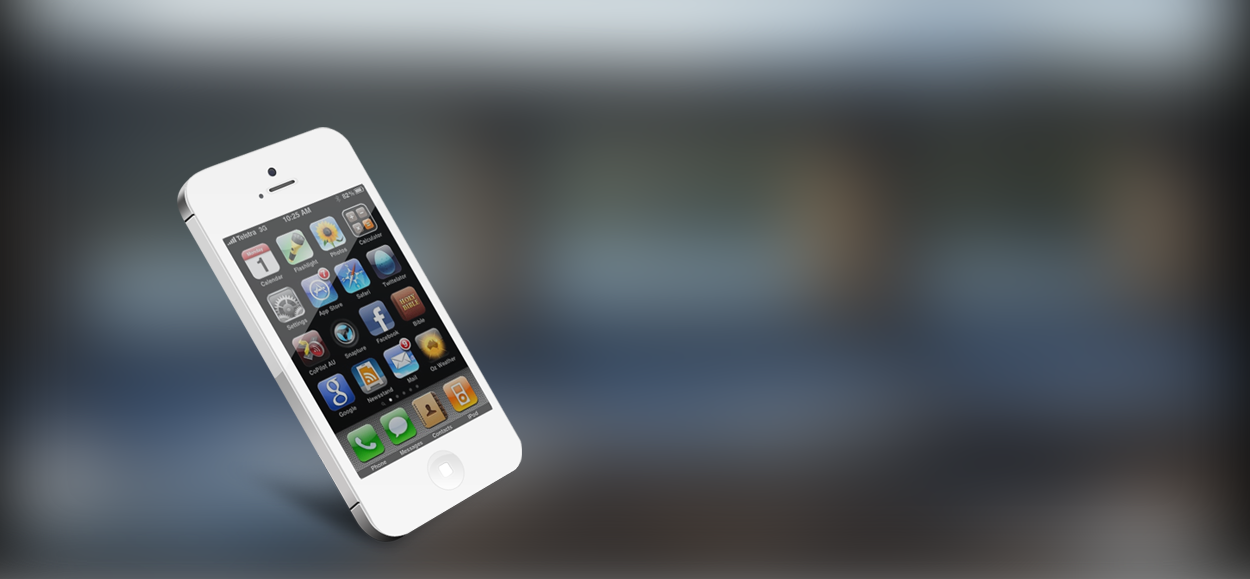
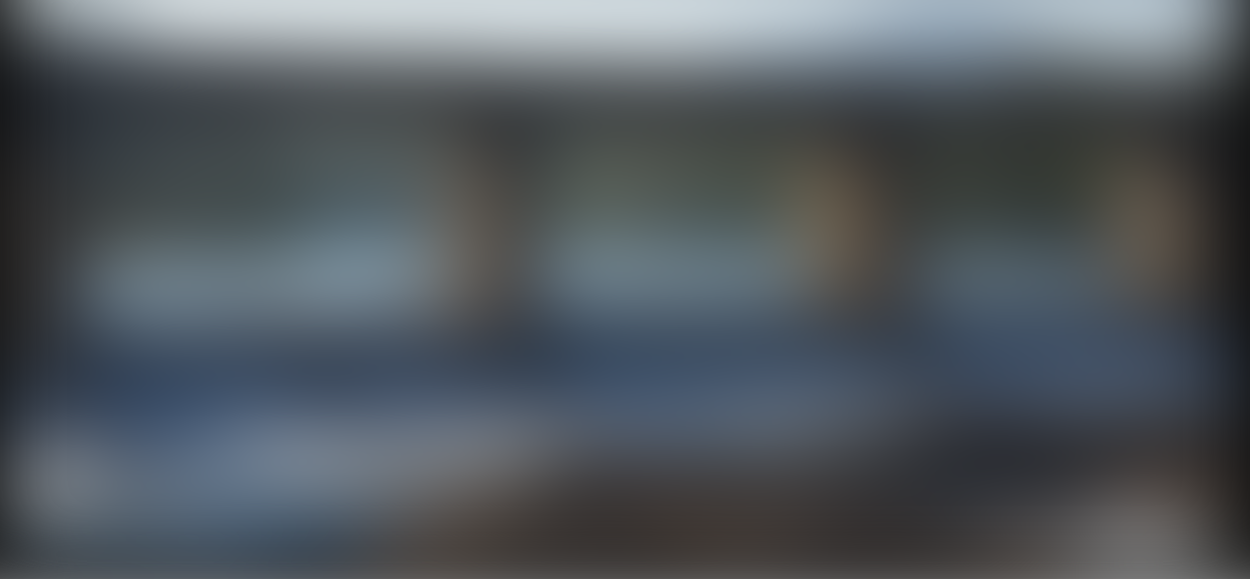
нов проект

Changed region(s): [[0.1248, 0.2176, 0.4368, 0.9326]]

diff --git a/index.html b/index.html
@@ -21,9 +21,9 @@
 				<div class="row">
 					<div class="col-4">
 						<img src="img/1.png">
-						<span>Mobile</span>
+						<span class="mob">Mobile</span>
 					</div>
-					<div class="col-6 offset-2">
+					<div class="menu col-6 offset-2">
 						<span>Home</span>
 						<span>Products</span>
 						<span>Services</span>
@@ -32,53 +32,94 @@
 				</div>
 			</div>
 		</div>
-
-		<div class="row bigbox">
+		<div class="row main-bg bigbox">
 			<div class="container">
 				<div class="row">
-					<div class="col-6 offset-6">
-						<span>Lorem ipsum dolor, sit amet consectetur adipisicing elit.</span>
-						<p><a href="#"></a></p>
+					<div class="col-12">
+						<div id="carouselExampleCaptions" class="carousel slide" data-ride="carousel">
+							<ol class="carousel-indicators">
+								<li data-target="#carouselExampleCaptions" data-slide-to="0" class="active"></li>
+								<li data-target="#carouselExampleCaptions" data-slide-to="1"></li>
+								<li data-target="#carouselExampleCaptions" data-slide-to="2"></li>
+							</ol>
+							<div class="carousel-inner">
+								<div class="carousel-item  active">
+									<img class="firsbox" src="img/phone.png" class="d-block" alt="...">
+									<div class="carousel-caption d-none d-md-block">
+										<h5 class="lump">Lorem Ipsum is simply</h5>
+										<p class="texlump">dummy text of the</p>
+										<p class="texlump">printing & typesetting</p>
+										<p class="link"><a href="#"><img src="img/icon_button.png"> Sign up now</a></p>
+									</div>
+								</div>
+								<div class="carousel-item">
+									<img class="firsbox" src="img/phone.png" class="d-block " alt="...">
+									<div class="carousel-caption d-none d-md-block">
+										<h5>Second slide label</h5>
+										<p>Some representative placeholder content for the second slide.</p>
+									</div>
+								</div>
+								<div class="carousel-item">
+									<img class="firsbox" src="img/phone.png" class="d-block " alt="...">
+									<div class="carousel-caption d-none d-md-block">
+										<h5>Third slide label</h5>
+										<p>Some representative placeholder content for the third slide.</p>
+									</div>
+								</div>
+							</div>
+							<button class="carousel-control-prev" type="button" data-target="#carouselExampleCaptions"
+								data-slide="prev">
+								<span class="carousel-control-prev-icon" aria-hidden="true"></span>
+								<span class="sr-only">Previous</span>
+							</button>
+							<button class="carousel-control-next" type="button" data-target="#carouselExampleCaptions"
+								data-slide="next">
+								<span class="carousel-control-next-icon" aria-hidden="true"></span>
+								<span class="sr-only">Next</span>
+							</button>
+						</div>
 					</div>
+				</div>
+
+
+
+
+			</div>
+		</div>
+	</div>
+	<div class="row">
+		<div class="container">
+			<div class="row">
+				<div class="col-4">
+					<img src="img/12-layers 2.png">
+					<p>Buy</p>
+					<p>Lorem ipsum dolor sit amet, consectetur adipisicing elit. Id, ad perspiciatis
+						maiores vel
+						nihil aliquam sunt alias mollitia natus fuga amet dolores dicta inventore
+						nesciunt numquam.
+					</p>
+				</div>
+				<div class="col-4">
+					<img src="img/2-layers (1).png">
+					<p>Look</p>
+					<p>Lorem ipsum dolor sit amet, consectetur adipisicing elit. Id, ad perspiciatis
+						maiores vel
+						nihil aliquam sunt alias mollitia natus fuga amet dolores dicta inventore
+						nesciunt numquam.
+					</p>
+				</div>
+				<div class="col-4">
+					<img src="img/2-layers (2).png">
+					<p>Write and draw</p>
+					<p>Lorem ipsum dolor sit amet, consectetur adipisicing elit. Id, ad perspiciatis
+						maiores vel
+						nihil aliquam sunt alias mollitia natus fuga amet dolores dicta inventore
+						nesciunt numquam.
+					</p>
 				</div>
 			</div>
 		</div>
-
-
-
-		<div class="row">
-			<div class="container">
-				<div class="row">
-					<div class="col-4">
-						<img src="img/12-layers 2.png">
-						<p>Buy</p>
-						<p>Lorem ipsum dolor sit amet, consectetur adipisicing elit. Id, ad perspiciatis
-							maiores vel
-							nihil aliquam sunt alias mollitia natus fuga amet dolores dicta inventore
-							nesciunt numquam.
-						</p>
-					</div>
-					<div class="col-4">
-						<img src="img/2-layers (1).png">
-						<p>Look</p>
-						<p>Lorem ipsum dolor sit amet, consectetur adipisicing elit. Id, ad perspiciatis
-							maiores vel
-							nihil aliquam sunt alias mollitia natus fuga amet dolores dicta inventore
-							nesciunt numquam.
-						</p>
-					</div>
-					<div class="col-4">
-						<img src="img/2-layers (2).png">
-						<p>Write and draw</p>
-						<p>Lorem ipsum dolor sit amet, consectetur adipisicing elit. Id, ad perspiciatis
-							maiores vel
-							nihil aliquam sunt alias mollitia natus fuga amet dolores dicta inventore
-							nesciunt numquam.
-						</p>
-					</div>
-				</div>
-			</div>
-		</div>
+	</div>
 	</div>
 	<div class="container">
 		<div class="row">
@@ -133,7 +174,8 @@
 
 
 
-		</script>
+
+		<script src="libs/jquery/jquery-3.6.0.min.js"></script>
 		<script src="libs/bootstrap/js/bootstrap.bundle.js"></script>
 		<script src="libs/bootstrap/js/bootstrap.js"></script>
 </body>

diff --git a/css/main.css b/css/main.css
@@ -1,6 +1,115 @@
-.bigbox {
+.mob {
+    width: 212px;
+    height: 58px;
+    color: #5094f2;
+    font-family: Jokerman;
+    font-size: 60px;
+    font-weight: 400;
+    text-align: left;
+    letter-spacing: 0.6px;
+    margin-left: 2%;
+    vertical-align: middle;
+}
+
+.menu {
+    width: 448px;
+    color: #6c6c6c;
+    font-family: Jokerman;
+    font-size: 25px;
+    font-weight: 400;
+    text-align: left;
+    letter-spacing: 0.25px;
+    margin-top: 3%;
+}
+
+.lump {
+    width: 415px;
+    color: #ffffff;
+    font-family: "Stylus BT";
+    font-size: 28px;
+    font-weight: 400;
+    line-height: 44.42px;
+    text-align: left;
+}
+
+.texlum {
+    font-family: "Stylus BT";
+    font-size: 20px;
+    font-weight: 400;
+    line-height: 44.42px;
+    text-align: left;
+    margin: 0;
+}
+
+.texlump {
+    font-family: "Stylus BT";
+    font-size: 24px;
+    font-style: normal;
+    letter-spacing: normal;
+    line-height: normal;
+    font-weight: 400;
+    line-height: 44.42px;
+    text-align: left;
+}
+
+a {
+    display: block;
+    background-color: blue;
+    color: white;
+    width: 213px;
+    height: 41px;
+    color: #ffffff;
+    font-family: "Stylus BT";
+    font-size: 22px;
+    font-weight: 400;
+    line-height: 44.42px;
+}
+
+
+
+
+
+.texfhot .bigbox {
     height: 579px;
     background-image: url(../img/2-layers.png);
     background-repeat: no-repeat;
     background-size: cover;
+}
+
+.firsbox {
+    width: 40%;
+    margin-left: 18%;
+    padding: 3%;
+    position: relative;
+}
+
+.carousel-caption {
+    position: absolute;
+    top: 20%;
+    bottom: 0;
+    right: 0;
+    left: 45%;
+    width: 40%;
+    padding-left: 10%;
+}
+
+.carousel-control-prev-icon {
+    background-image: url(../img/MicrosoftTeams-image2.png);
+}
+
+.carousel-control-next-icon {
+    background-image: url(../img/MicrosoftTeams-image3.png);
+}
+
+.carousel-indicators li {
+    display: none;
+}
+
+a {
+    display: block;
+    background-color: blue;
+    color: white;
+    margin-left: 20%;
+    margin-right: 0;
+    width: 60%;
 }
